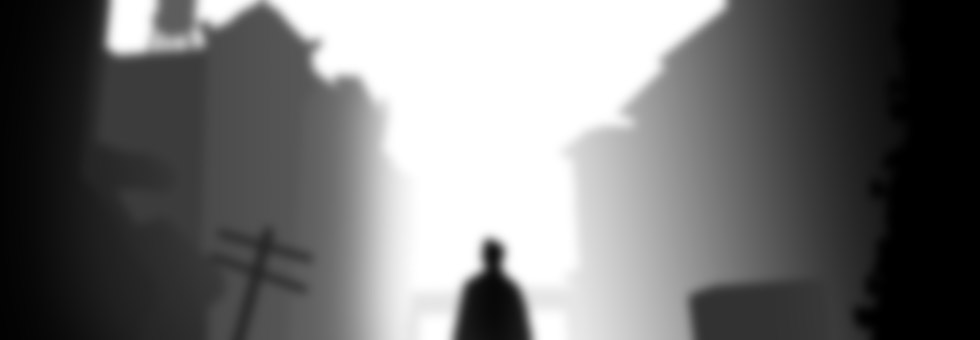
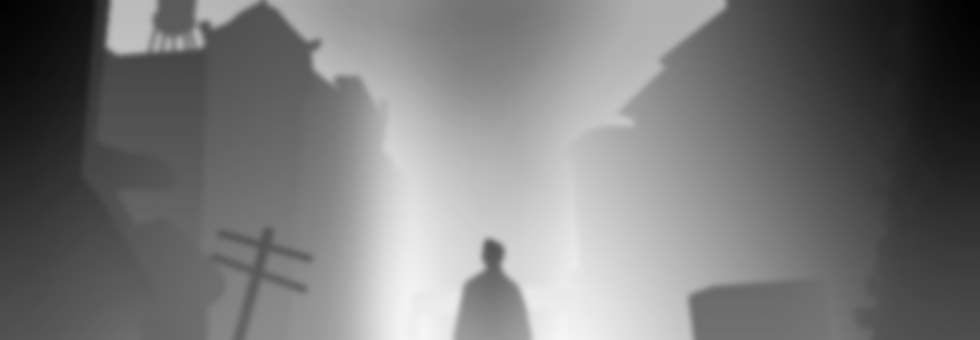
shader on hover

diff --git a/components/pixi-image.js b/components/pixi-image.js
@@ -1,12 +1,6 @@
 import React from 'react';
-import { Stage, Sprite, useTick, withPixiApp, AppConsumer } from '@inlet/react-pixi';
+import { Stage, Sprite, withPixiApp } from '@inlet/react-pixi';
 import * as PIXI from 'pixi.js';
-
-// import dynamic from 'next/dynamic'
-// const PixiApp = dynamic(
-//     () => import('pixi.js').then((mod) => mod.Application),
-//     { ssr: false }
-// )
 
 const transitionShader = `
     precision mediump float;
@@ -40,32 +34,33 @@ class PixiImage extends React.Component {
         // Variables for PIXI
         this.config = {
             // frames
-            transitionDelay: props.transitionDelay || 80,
+            transitionDelay: props.transitionDelay || 30,
             // how many transition time is "taken" by the delay (remaining time is actual fade-in of pixels)
-            transitionDelayRatio: props.transitionDelayRatio || .95
+            transitionDelayRatio: props.transitionDelayRatio || .7
         }
 
         // Prepare shader
-        this.shader = new PIXI.Filter(null, transitionShader);
-        this.shader.uniforms.mapSampler = PIXI.Sprite.from("/images/test-project-mask.jpg")._texture;
-        this.shader.uniforms.time = 0.0;
-        this.shader.uniforms.delayRatio = this.config.transitionDelayRatio;
+        this.transitionFilter = new PIXI.Filter(null, transitionShader);
+        this.transitionFilter.uniforms.mapSampler = PIXI.Sprite.from(props.transitionMask)._texture;
+        this.transitionFilter.uniforms.time = 0.0;
+        this.transitionFilter.uniforms.delayRatio = this.config.transitionDelayRatio;
 
         // React state
         this.state = {
-            isTransitioning: false
+            transitionDirection: 0 // 0 = paused; 1 = in; -1 = out
         };
 
-        this.handleClick = this.handleClick.bind(this);
+        this.handleMouseOver = this.handleMouseOver.bind(this);
+        this.handleMouseLeave = this.handleMouseLeave.bind(this);
         this.onMount = this.onMount.bind(this);
     }
 
     render() {
         return (
-            <Stage onClick={this.handleClick} onMount={this.onMount} width={980} height={340}>
+            <Stage onMouseEnter={this.handleMouseOver} onMouseLeave={this.handleMouseLeave} onMount={this.onMount} width={980} height={340}>
                 <Sprite image="/images/test-project.jpg" x={0} y={0} />
                 <Sprite 
-                    filters = {[this.shader]}
+                    filters = {[this.transitionFilter]}
                     image="/images/test-project-hover.jpg" 
                     x={0} 
                     y={0} 
@@ -75,41 +70,26 @@ class PixiImage extends React.Component {
     }
 
     onMount(app) {
-        console.log('stage mount');
-        console.log(app);
-        console.log(this);
-
         app.ticker.add(delta => {
-            if(this.state.isTransitioning) {						
-                this.shader.uniforms.time = Math.min(this.shader.uniforms.time + delta / this.config.transitionDelay, 1);
-                if(this.shader.uniforms.time >= 1) {
-                    // wait a little before removing effect
-                    setTimeout(() => {
-                        this.isTransitioning = false;
-                        this.shader.uniforms.time = 0.0;
-                    }, 500);
-                }
-            }
+            let time = this.transitionFilter.uniforms.time + (delta / this.config.transitionDelay) * this.state.transitionDirection;
+            this.transitionFilter.uniforms.time = Math.max(Math.min(time, 1), 0);
         })
     }
 
+    handleMouseOver() {
+        this.setState({transitionDirection: 1});
+    }
+
+    handleMouseLeave() {
+        this.setState({transitionDirection: -1});
+    }
+    
     componentDidMount() {
 
     }
 
     componentWillUnmount() {
         
-    }
-
-    handleClick() {
-        console.log('click!');
-        if(!this.state.isTransitioning) {
-            // TODO: pass to sprite
-            // simpleShader.uniforms.time = 0.0;
-        }
-        this.setState({
-            isTransitioning: true
-        });
     }
 }
 

diff --git a/components/projects/thumbnail.js b/components/projects/thumbnail.js
@@ -4,7 +4,15 @@ const PixiImage = dynamic(() => import('../pixi-image'), { ssr: false })
 export default function Thumbnail(props) {
     return (
         <div className="mb-4">
-            <PixiImage src={props.src} width={980} height={306} alt="" />
+            <PixiImage 
+                src={props.src} 
+                width={980} 
+                height={306} 
+                alt="" 
+                transitionDelayRatio={.7}
+                transitionDelay={30}
+                transitionMask="/images/test-project-mask.jpg"
+            />
         </div>
     )
 }
